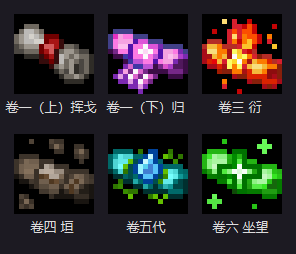
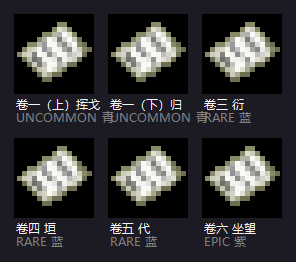
art(剧情道具): 残卷六卷改用同一张残页贴图（方案A，碎片感），更新预览图，清理临时对比图

diff --git a/剧情/开场_分离之后.md b/剧情/开场_分离之后.md
@@ -1,13 +1,13 @@
 > **维护者**：**编剧系统 AAA**（agent `dsh` · 会话主题「文书」）· **最后更新** 2026-09-21
 > **归属**：本文件由 **编剧系统 AAA** 维护 ✓；其他专题请勿在此改剧情/文案 ✗。
-> **性质**：★ **开场剧情文本**（游戏第一段）—— **以对话为主**。
+> **性质**：★ **开场剧情文本**（游戏第一段）。
 > **上游**：`一周目_第一纪正史.md` §4.2（分离之后 1–5 条）；前史由**自制动画**承担。
 >
 > ★★ **写法约定（用户 2026-09-21）**：
-> **① 少旁白，戏靠对话推** ✗ —— **不写"他想""他明白"这类内心解说**；
-> **② 只用极少的动作提示**（`（…）` 内），**且必须是玩家能看见的画面**；
-> **③ 关键字用加粗强调**（加深印象）；
-> **④ 台词原句用 「」**。
+> **① 少旁白，戏靠对话推** ✗ —— 不写"他想""他明白"这类内心解说；
+> **② ★ 对话要成段（中等长度）** ✗ —— **不要一句一断的短句堆叠**；
+> **③ 动作提示只留必要且可见的**，写成 `（…）`；
+> **④ 关键字用加粗强调**（加深印象）；**台词原句仍用「」标出**。
 >
 > 🔴 **本文只写剧情文本** —— **不写**任务目标、奖励、数值、触发条件。
 
@@ -24,119 +24,75 @@
 
 **【景】** 主城，A. Self 的酒馆。清晨。
 
-> **Self**：「你坐了一夜了。」
+> **Self**：「你在这儿坐了一整夜了，归。桌上那杯酒你一口没动，我给你换一杯热的吧，凉着喝伤胃。」
 >
-> **归**：「嗯。」
+> **归**：「不用换。那杯不是我的。」
 >
-> **Self**：「他天没亮就走了。」
+> **Self**（擦着手，停了一下）：「……他天没亮就走了。走之前还回头看了一眼，像是想留句话，最后什么也没说。」
 >
-> **归**：「我知道。」
+> **归**：「我知道。他要是想说，昨天就说了。」
 >
-> **Self**：「那你还坐着干什么。」
+> **Self**：「那你还坐在这儿干什么？」
 >
 > **归**：「等他回来。」
 >
-> **Self**：「……他说了，看清楚了就回来。」
+> **Self**：「他跟你说过'看清楚了就回来'，这话我亲耳听见的。你还有什么不放心的。」
 >
-> **归**：「**他说的是"看清楚了"。**」
+> **归**：「我不是不放心那句话。**他说的是"看清楚了"——可他没说，他去看什么。**」
 >
-> **Self**：「这句有什么问题？」
+> *（Self 把抹布放下，看了一眼那杯没人动过的酒。）*
 >
-> **归**：「**问题是他没说，他去看什么。**」
-
-> *（Self 把抹布放下，看了一眼桌上那杯没动过的酒。）*
-
-> **Self**：「这杯要收了吗。」
+> **Self**：「这杯，收了吗？」
 >
 > **归**：「留着。」
 >
-> **Self**：「留到什么时候。」
+> **Self**：「留到什么时候？」
 >
 > **归**：「**留到我知道他为什么走。**」
 >
-> *（归站起来，把钱压在杯下 —— **两个人的酒钱**。）*
-
-> **Self**：「归。」
+> **Self**：「……你这个人，认起死理来比谁都犟。行，我给你留着，谁问都说是我的酒。」
 >
-> **归**：「嗯。」
+> *（归站起来，把钱压在杯下 —— 两个人的酒钱。）*
 >
-> **Self**：「他走之前，在这儿翻了一晚的书架。」
+> **Self**：「哎，钱多了。」
 >
-> **归**：「翻什么。」
+> **归**：「他的那份。」
 >
-> **Self**：「我不知道那是什么书。」
+> **Self**：「他走之前，在我这儿翻了一晚上的书架，翻得乱七八糟，天亮了才走。我不知道他找的是什么书 —— 但我记得他翻的是哪一格。」
 >
-> **Self**：「**但全城只有一个人管着那些书。**」
+> **归**：「哪一格？」
+>
+> **Self**：「**协会典籍馆最里面那一格。那格子里的书，全城只有一个人能拿出来。**」
 
 ---
 
 ## 第二场 · 不外借的那一半
 
-**【景】** 魔法协会的典籍馆。
+**【景】** 魔法协会的典籍馆。让正在理名册。
 
-> **让**：「归。」
+> **让**：「归。你很少来这儿，今天怎么……」
 >
-> **归**：「衍这半个月，借过什么。」
+> **归**：「衍这半个月，在你这儿借过什么。」
 >
-> **让**：「……你也来问这个。」
+> **让**（手停在名册上，没有抬头）：「……你也来问这个。没有人问过我，是他自己来问的 —— 他走的前一晚就坐在你现在站的位置，问我借一本不外借的书。我借了，第二天他就走了。所以你现在来问'他借过什么'，我一点都不意外；我意外的是，来的人是你。」
 >
-> **归**：「也？」
+> **归**：「那本书里写了什么。」
 >
-> **让**：「他走的前一晚，我在这儿。」
+> **让**：「**那一页不在了。**书匣还在，登记还在，书本身也还在 —— 但被人抽掉了几页，抽得很干净，看不出是哪一年动的手。」
 >
-> **归**：「他借了什么。」
+> *（她把一本薄薄的登记簿推过来，翻到最后一页。）*
 >
-> **让**：「**一本不外借的书。**」
+> **让**：「最后一个借它的人是他，日期是他走的前一天。这一行是我亲手写的。」
 >
-> **归**：「里面写了什么。」
+> **归**：「你写的时候，知道他要走吗。」
 >
-> **让**：「**那一页不在了。**」
+> **让**：「不知道。他求我的时候我犹豫了一下 —— **我当时想的是"这不合规矩"**，就这么一瞬间，然后我把书给他了。第二天他就走了。所以你要问我为什么愿意跟你走，理由很简单：**那本书是我给的，而这座城里只有我还记得他借的是哪一本。**」
 >
-> **归**：「书呢。」
+> **归**：「他是你朋友。那你犹豫什么。」
 >
-> **让**：「书匣在。登记在。**书不在。**」
+> **让**（合上登记簿）：「**因为我犹豫过一次了。**我记了十一年的簿子，哪天谁借了什么都在上面，可那天我第一个念头不是'帮他'，是'这不合规矩'。归，我不想这辈子只有那一个念头。」
 >
-> *（她把登记簿推过来，翻到最后一页。）*
->
-> **让**：「最后一个借它的人，是他。日期是他走的前一天。」
->
-> **归**：「你给他的。」
->
-> **让**：「是我给他的。」
->
-> **归**：「为什么。」
->
-> **让**：「他求我的时候，我犹豫了一下。」
->
-> **让**：「我当时想的是'**这不合规矩**'。」
->
-> **让**：「然后我把书给了他。」
->
-> **让**：「**第二天他就走了。**」
->
-> **归**：「所以你要跟我去。」
->
-> **让**：「**我跟你去。**」
->
-> **归**：「他是你朋友？」
->
-> **让**：「是。」
->
-> **归**：「那你还犹豫什么。」
->
-> **让**：「**因为我犹豫过一次了。**」
->
-> *（她把登记簿合上。）*
->
-> **让**：「这本簿子我记了十一年。」
->
-> **让**：「哪天谁借了什么，都在这上面。」
->
-> **让**：「**现在整座城里，只有我还记得他借的是哪一本。**」
-
-> **让**：「你要找的那本书，我能帮你找。」
->
-> **让**：「**但你得带我走。**」
+> **让**：「你要找的书，我能帮你找。**但你得带我走。**」
 
 ---
 
@@ -146,55 +102,39 @@
 
 > **铁匠**：「你要出门。」
 >
-> **归**：「嗯。」
->
-> **铁匠**：「找他？」
->
-> **归**：「嗯。」
+> **归**：「嗯。去找衍。」
 >
 > **铁匠**：「几个人。」
 >
-> **归**：「两个。」
+> **归**：「两个。我，还有一个管书的。」
 >
-> **铁匠**（往后屋喊）：「**槐！**」
-
-> *（后屋东西倒了。槐跑出来，手在围裙上擦。）*
-
+> **铁匠**（往砧上一敲，扭头朝后屋喊）：「**槐！**」
+>
+> *（后屋一阵东西倒下的声响。槐跑出来，手还在围裙上擦。）*
+>
 > **槐**：「咋了爹。」
 >
-> **铁匠**：「跟他走。」
+> **铁匠**：「跟他走。他去找人，你跟着去历练历练。」
 >
-> **槐**：「……去哪儿？」
+> **归**：「不用。这是我自己的事，路上不一定安稳。」
 >
-> **铁匠**：「**找到人再回来。**」
+> **铁匠**：「我知道是你自己的事。**他十九了，还没出过城，天天在这炉子边上敲铁，敲得比他爹还像他爹。**别人家的孩子都在外面走，我也想让他走一趟 —— 你要是嫌他拖累，让他自己走也行，反正别留在这屋里。」
 >
-> **归**：「不用。这是我自己的事。」
->
-> **铁匠**：「我知道是你自己的事。」
->
-> **铁匠**：「他十九了。还没出过城。」
->
-> **铁匠**：「**天天在炉子边上敲铁，敲得比他爹还像他爹。**」
->
-> **铁匠**：「别人家孩子都在外面走。我也想让他走一趟。」
->
-> **槐**：「爹。」
+> **槐**（看了看他爹，又看了看归）：「那……我收拾一下？就一会儿，我把手上这块料收进炉子里。」
 >
 > **铁匠**：「少废话。」
 >
-> **槐**（对归）：「那……我收拾一下。」
+> **槐**（对归）：「行，那我跟你去。**找到人我就回来，回来跟老爹交差。**」
 >
-> **槐**：「**找到人我就回来，回来跟老爹交差。**」
-
-> *（铁匠从架子上取下一件东西，塞给槐 —— **一面盾，棱角还是生的。**）*
-
-> **铁匠**：「这个还没打完。」
+> *（铁匠从架子上取下一件东西，塞给槐 —— 一面盾，棱角还是生的。）*
 >
-> **槐**：「没打完你给我干啥。」
+> **槐**：「爹，这个还没打完呢。」
 >
-> **铁匠**：「**打完你就该回来了。**」
+> **铁匠**：「**打完你就该回来了。**路上别嫌它沉，也别把它丢了 —— 你带着它出门，就带着它进门。」
 >
-> **铁匠**：「**回来之前，别把它丢了。**」
+> **槐**：「知道了知道了。」
+>
+> **铁匠**（对归）：「他要是回来的时候瘦了，我找你算账。」
 
 ---
 
@@ -202,48 +142,36 @@
 
 **【景】** 城门。晨光。
 
-> **让**：「先去哪儿。」
+> **让**：「先去哪儿？他的书我帮你查，但你得先给我个方向。」
 >
 > **归**：「他翻过协会的名册。」
 >
-> **让**：「名册……」
+> **让**：「名册……**测亲和力的那本？**」
 >
-> **让**：「**测亲和力的名册？**」
+> **归**：「嗯。连十几年前的旧册一起翻的，翻得很仔细。」
 >
-> **归**：「嗯。」
->
-> **让**：「他查法术，我不奇怪。」
->
-> **让**：「他查**人**……」
->
-> **让**：「归。」
->
-> **归**：「嗯。」
->
-> **让**：「**他在查谁？**」
+> **让**（停下来）：「归，他查法术我不奇怪，他本来就是那边的人。可他查**人**——**他在查谁？**全协会的册子加起来几千个人，他哪来那么多时间。」
 >
 > **归**：「……」
 >
 > **归**：「走。」
-
-> *（槐走在最后。他回头看了一眼城门里的方向 —— 那里看得见他家屋顶的烟。）*
-
-> **槐**：「哎，归哥。」
 >
-> **归**：「嗯。」
+> **让**：「归。」
 >
-> **槐**：「咱们路上，能顺手接活儿不。」
+> **归**：「我知道你想问什么。等我查完了再回答你。」
 >
-> **归**：「能。」
+> *（槐走在最后。他回头看了一眼城门里的方向 —— 那里还能看见他家屋顶的烟。）*
 >
-> **槐**：「我没打过架，光会打铁。」
+> **槐**：「哎，归哥。咱们路上，能不能顺手接点活儿？我没打过架，光会打铁，想练练手。」
 >
-> **槐**：「**想练练。**」
+> **归**：「能。路上有活就接。」
 >
-> **归**：「行。」
+> **槐**：「那就好。我还怕你们嫌我麻烦。」
 >
-> **槐**：「好嘞。」
-
+> **让**：「不嫌。打起来的时候，你站我前面就行。」
+>
+> **槐**：「那成。」
+>
 > *（三匹马出城。槐那匹走在最边上，盾绑在马侧。）*
 
 ---
@@ -252,12 +180,14 @@
 
 | 项 | 内容 |
 |---|---|
-| ★ 戏靠什么推 | ★ **全靠对话** —— 归问、别人答，**信息一点点漏出来**；**不写内心解说** |
-| ★ 旁白仅剩 | ★ **四处动作提示**（第二杯酒／登记簿／那面盾／回头看一眼烟）—— 都是**玩家能看见的画面** |
+| ★ 对话写法 | ★ **成段的中等长度** —— 每段 1–3 句、带标点停顿；**不做一句一断**（★ 用户 2026-09-21）|
+| ★ 戏靠什么推 | ★ **全靠对话** —— 归问、别人答，信息一层层漏出来；**不写内心解说** |
+| ★ 旁白仅剩 | ★ **七处动作提示**（那杯酒／钱压杯下／推登记簿／合上登记簿／后屋声响／塞盾／回头看烟）—— **都是镜头能看见的** |
 | ★ 让的动机 | ★ **"因为我犹豫过一次了"** —— 她入队不是"朋友义气"，是**要补那次犹豫** |
 | ★ 槐的口头禅 | ★ 第一次出现：**"找到人我就回来，回来跟老爹交差"** ⇒ 后面几次会**变味**（见 §3.2d）|
-| ★★ 那面盾 | ★★ **铁匠："打完你就该回来了"／"回来之前别把它丢了"** ⇒ ★★★ **这两句是给他结局埋的**（盾没打完，人也没回）|
-| ★★ 埋的钩子 | ★★ **"他查法术我不奇怪，他查人……他在查谁？"** ⇒ 玩家此时不懂，**指的就是归** |
+| ★★ 那面盾 | ★★ **"打完你就该回来了""带着它出门，就带着它进门"** ⇒ ★★★ **给他结局埋的钩**（盾没打完，人也没回）|
+| ★★ 埋的钩子 | ★★ **"他查法术我不奇怪，他查人——他在查谁？"** ⇒ 玩家此时不懂，**指的就是归** |
+| ★ 归的处理 | ★ **不解释、不辩白** —— 被问到关键处只说"走"或"等我查完再回答你"（★ 他的性格：结论在后）|
 | ★ 未写 | ✗ 任务目标 / 奖励 / 触发 / 数值 —— 等用户给 |
 
 > ⚠ **以上正文为【提案】** —— 可改字、可删场、可整段重写。
